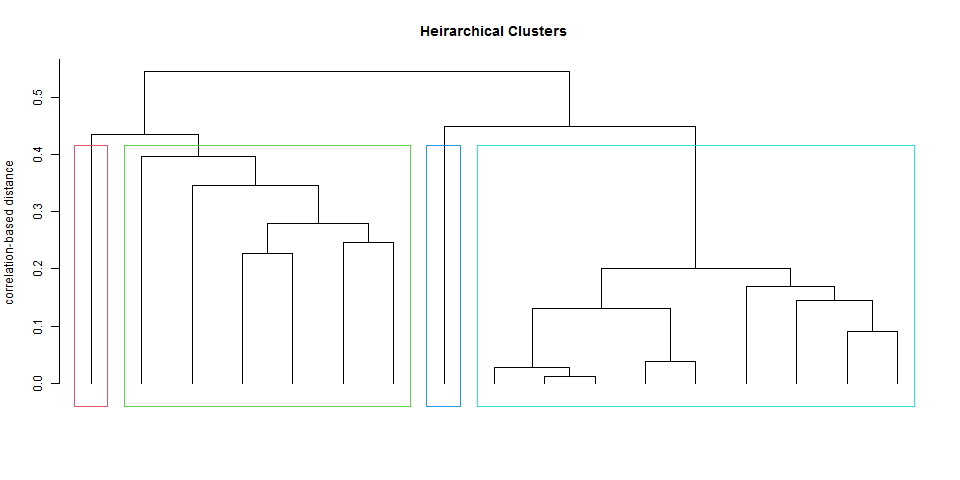
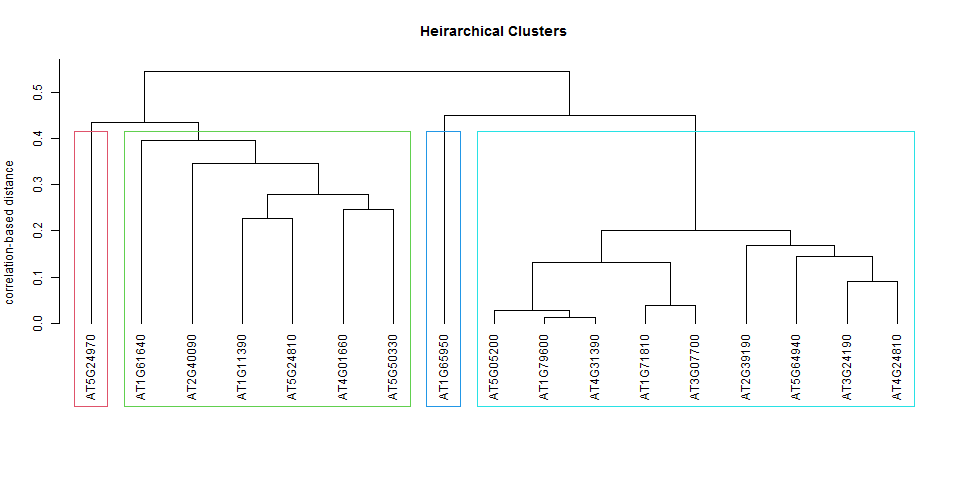
commit

diff --git a/2020-07-06/script.py b/2020-07-06/script.py
@@ -30,8 +30,17 @@ dendrogram(linked,
             orientation='top',
             labels=labelList,
             distance_sort='descending',
-            show_leaf_counts=True)
+            show_leaf_counts=True, leaf_rotation=45)
 plt.show()
+
+
+from sklearn.cluster import AgglomerativeClustering
+
+num_clust = 4
+cluster = AgglomerativeClustering(n_clusters=num_clust, affinity='correlation', linkage='average')
+y = cluster.fit_predict(X)
+for k in range(num_clust):
+    print(X[y == k].index)
 
 # import numpy as np
 # from scipy.cluster.hierarchy import dendrogram, linkage
